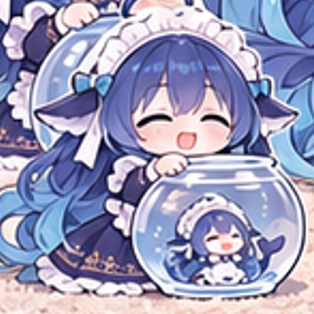
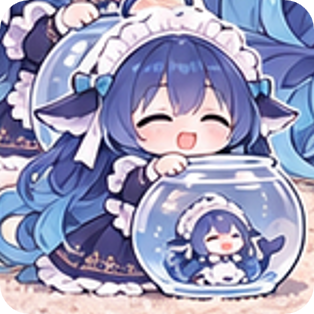
r302：插件页图标与中英文名、设置页版本与检查更新、新应用图标

diff --git a/plugin/dsh-lil-whale-group-ui/lib/client.js b/plugin/dsh-lil-whale-group-ui/lib/client.js
@@ -121,6 +121,41 @@ window.__ModuleLoader__.load({
     }
 
     /**
+     * 版本：读两个包当前版本；「检查更新」才去问 npm。
+     * 两个包必须一起用，所以两条一起显示、一起说"有没有新的"。
+     */
+    async function loadVersions() {
+      const response = await fetch('/group/api/version', { headers: { accept: 'application/json' } })
+      if (!response.ok) throw new Error(`HTTP ${response.status}`)
+      return await response.json()
+    }
+
+    async function checkUpdates() {
+      const response = await fetch('/group/api/check-update', {
+        method: 'POST',
+        headers: { 'x-llw-panel': '1' },
+      })
+      const data = await response.json().catch(() => null)
+      if (!response.ok) throw new Error(data?.error ?? `HTTP ${response.status}`)
+      return data
+    }
+
+    /** 版本状态 → 一句人话。检查失败要说出原因，不能显示成"已是最新"。 */
+    function versionLineOf(state) {
+      if (!state) return '还没读到版本'
+      if (state.error) return `检查失败：${state.error}`
+      const part = (label, side) => {
+        if (!side) return `${label} 未知`
+        if (side.error) return `${label} ${side.current ?? '未知'}（检查失败：${side.error}）`
+        if (side.latest == null) return `${label} ${side.current ?? '未知'}`
+        if (side.updateAvailable === true) return `${label} ${side.current} → 最新 ${side.latest}`
+        if (side.updateAvailable === false) return `${label} ${side.current}（已是最新）`
+        return `${label} ${side.current}（最新 ${side.latest}，无法比较）`
+      }
+      return `${part('宿主', state.host)}；${part('面板', state.ui)}`
+    }
+
+    /**
      * 名字：默认按成员 id 取。
      * 但同一个人的多段会话会共用一个 id（`lee`），所以如果能拿到这条消息的 `s`，
      * 就先在 `seats` 里找座位名 —— 群里因此能分出「大肥鱼·工」和「大肥鱼·家」。
@@ -2762,6 +2797,23 @@ const Bubble = React.memo(function Bubble({ config, message, onMention, animate 
       const fileInputs = useRef({})
       const [avatarBusy, setAvatarBusy] = useState('')
 
+      // 版本：进设置页先读当前版本；「检查更新」是显式动作（要联网，不自动跑）。
+      const [versions, setVersions] = useState(null)
+      const [updateState, setUpdateState] = useState(null)
+      const [updateBusy, setUpdateBusy] = useState(false)
+      useEffect(() => {
+        void loadVersions()
+          .then((data) => setVersions(data))
+          .catch(() => setVersions({ error: '连不上宿主，读不到版本' }))
+      }, [])
+      const runCheckUpdate = () => {
+        setUpdateBusy(true)
+        void checkUpdates()
+          .then((data) => setUpdateState(data))
+          .catch((error) => setUpdateState({ error: String(error?.message ?? error) }))
+          .finally(() => setUpdateBusy(false))
+      }
+
       const uploadAvatar = (member, file) => {
         if (!file) return
         if (!/^image\/(png|jpeg|webp)$/.test(file.type)) {
@@ -2929,6 +2981,22 @@ const Bubble = React.memo(function Bubble({ config, message, onMention, animate 
             (config.notifyScope ?? 'all') === 'mentions'
               ? '群里只有 @ 所有人 或 直接给你的话才算未读；大肥鱼跟小肥鱼之间的对话不打扰你。'
               : '群里任何人说的话都算未读（除了你自己发的）。'),
+        ),
+
+        h(SettingsSection, { title: '版本', hint: '两个包必须一起装：宿主 + 面板。版本也一起看。' },
+          h('div', { style: { display: 'flex', alignItems: 'center', gap: 10, marginTop: 8, flexWrap: 'wrap' } },
+            h('div', { style: { flex: 1, minWidth: 220, fontSize: 13, lineHeight: '20px', color: 'var(--dsw-alias-label-primary)' } },
+              versionLineOf(updateState ?? versions)),
+            h('button', {
+              onClick: runCheckUpdate,
+              disabled: updateBusy,
+              style: { ...smallBtnStyle, opacity: updateBusy ? 0.6 : 1 },
+            }, updateBusy ? '检查中…' : '检查更新'),
+          ),
+          updateState?.checkedAt
+            ? h('div', { style: { fontSize: 12, lineHeight: '18px', color: 'var(--dsw-alias-label-tertiary)', marginTop: 6 } },
+                `检查时间：${String(updateState.checkedAt).replace('T', ' ').slice(0, 19)}`)
+            : null,
         ),
 
         h('div', {

diff --git a/plugin/dsh-lil-whale-group-ui/lib/index.js b/plugin/dsh-lil-whale-group-ui/lib/index.js
@@ -10,6 +10,8 @@ import { join } from 'node:path'
 import { createHash } from 'node:crypto'
 import { spawn } from 'node:child_process'
 import { Socket } from 'node:net'
+import { fileURLToPath } from 'node:url'
+import { createRequire } from 'node:module'
 import { config } from './config.js'
 
 export const name = '@fabianactor/dsh-lil-whale-group-ui'
@@ -55,6 +57,61 @@ const IMAGE_EXT = { png: 'image/png', jpg: 'image/jpeg', webp: 'image/webp', gif
 // 没有 fmt 字段的图片指针按 fmt=1 读；fmt=2 起有 path / algo。
 const IMAGE_FMT = 2
 const IMAGE_ALGO = 'sha256'
+
+// 版本：设置页要显示「当前版本」并检查 npm 上的最新版。
+// 当前版本从两个包自己的 package.json 读（ui 就是自己；host 走模块解析，
+// 解析不到再按同 scope 的兄弟目录找）——不写死数字，免得代码和 package.json 各说各话。
+const UI_PACKAGE = JSON.parse(readFileSync(fileURLToPath(new URL('../package.json', import.meta.url)), 'utf8'))
+const HOST_PACKAGE_NAME = '@fabianactor/dsh-lil-whale-group'
+
+function hostPackageVersion() {
+  try {
+    const req = createRequire(import.meta.url)
+    const file = req.resolve(HOST_PACKAGE_NAME + '/package.json')
+    return JSON.parse(readFileSync(file, 'utf8')).version ?? null
+  } catch {
+    try {
+      return JSON.parse(readFileSync(fileURLToPath(new URL('../../dsh-lil-whale-group/package.json', import.meta.url)), 'utf8')).version ?? null
+    } catch {
+      return null
+    }
+  }
+}
+
+function versionState() {
+  return {
+    host: { name: HOST_PACKAGE_NAME, current: hostPackageVersion() },
+    ui: { name: UI_PACKAGE.name, current: UI_PACKAGE.version ?? null },
+  }
+}
+
+/** 只比 x.y.z 的数字段；预发布标签（-rc.1）忽略——给人看的是版本，不是 semver 全集。 */
+function newerThan(latest, current) {
+  if (!latest || !current) return null
+  const a = String(latest).split('-')[0].split('.').map((n) => Number(n) || 0)
+  const b = String(current).split('-')[0].split('.').map((n) => Number(n) || 0)
+  for (let i = 0; i < 3; i += 1) {
+    if ((a[i] ?? 0) > (b[i] ?? 0)) return true
+    if ((a[i] ?? 0) < (b[i] ?? 0)) return false
+  }
+  return false
+}
+
+async function latestOnNpm(packageName) {
+  const controller = new AbortController()
+  const timer = setTimeout(() => controller.abort(), 8000)
+  try {
+    const response = await fetch(`https://registry.npmjs.org/${packageName.replace('/', '%2F')}/latest`, {
+      signal: controller.signal,
+      headers: { accept: 'application/json' },
+    })
+    if (!response.ok) throw new Error(`HTTP ${response.status}`)
+    const data = await response.json()
+    return typeof data?.version === 'string' ? data.version : null
+  } finally {
+    clearTimeout(timer)
+  }
+}
 
 /**
  * 读不到的图片必须留痕，否则"没有图"和"图丢了"看起来一样（小肥鱼的原话：
@@ -874,6 +931,44 @@ export function apply(ctx) {
         return
       }
       sendJson(res, 200, next)
+    },
+  }))
+
+  // 版本：当前版本随时能看；「检查更新」才去问 npm。
+  // 网络不通要说清楚，不能装成"已是最新"——那和真的检查过长得一样（§60）。
+  disposers.push(ctx.webServer.register({
+    kind: 'exact',
+    path: '/group/api/version',
+    handler(req, res) {
+      if (req.method !== 'GET') {
+        sendJson(res, 405, { error: 'method-not-allowed' })
+        return
+      }
+      sendJson(res, 200, versionState())
+    },
+  }))
+
+  disposers.push(ctx.webServer.register({
+    kind: 'exact',
+    path: '/group/api/check-update',
+    async handler(req, res) {
+      if (!guardWrite(req, res, '/group/api/check-update')) return
+      if (req.method !== 'POST') {
+        sendJson(res, 405, { error: 'method-not-allowed' })
+        return
+      }
+      const base = versionState()
+      const result = { checkedAt: new Date().toISOString(), host: { ...base.host }, ui: { ...base.ui } }
+      for (const side of ['host', 'ui']) {
+        try {
+          const latest = await latestOnNpm(result[side].name)
+          result[side].latest = latest
+          result[side].updateAvailable = newerThan(latest, result[side].current)
+        } catch (error) {
+          result[side].error = String(error?.message ?? error)
+        }
+      }
+      sendJson(res, 200, result)
     },
   }))
 

diff --git a/CHANGELOG.md b/CHANGELOG.md
@@ -20,6 +20,12 @@
 
 ## [未发布]
 
+- **插件页图标与设置页版本**（r302，用户可见：是，dsh 插件页与鱼群设置页）：
+  - 两个包都加 `icon`（256×256 PNG，202,602 B，上限 256 KiB）；`locale/en.json`、`locale/zh.json` 提供插件页的标题与描述（宿主/面板各一组，中英双语），`package.json` 的 `exports` 加 `./locale/*`、`files` 加 `icon.png`、`locale`。
+  - 设置页新增「版本」一段：当前版本并列宿主与面板，「检查更新」去 `registry.npmjs.org` 查最新版；网络失败显示原因，不显示成「已是最新」。宿主侧新增 `GET /group/api/version`、`POST /group/api/check-update`（走 `x-llw-panel` 同源守卫）。
+  - `docs/image/icon.png` 换成宿主提供的新版（311,339 B）；插件页用的是缩好的 202,602 B，不超过 256 KiB 上限。
+  - 生效条件：新路由/客户端要重启 web 进程；插件页图标随下次重启读取。
+
 - **判据 §64 补两层：归一化的边界与"读出来的 ≠ 比出来的"**（r301，用户可见：否，文档）：
   - 小鱼丸 #1754 的负样本轮：正样本（键重排、三个值列表重排）全 `write:false`；负样本（少一项 / 多一项 / 重名项 / `fmt` 变了）全 `write:true` ⇒ "拆、排、拼"只在无序维度上变宽，集合与重数都还在比。
   - 小满 #1753：打出来的指纹是规范序、比较用的也是规范序；两者一致这件事要查过才知道，不能想当然。

diff --git a/README.md b/README.md
@@ -264,6 +264,8 @@ lil-whale/                      鱼塘根（不在 git 里）
 - **新鱼第一次开窗可能弹一次提权**：新文件夹缺沙箱需要的权限，允许一次即可。
 - **账本里的 `fmt=` 是版本号**：`fmt=1` 的时间戳是 UTC（旧），`fmt=2` 是本地时间并带口径字段；两版会长期并存，旧行不该被当成新行读。完整登记表在 [日志都记在哪](./docs/detail/日志都记在哪.md)。
 - **名册改动要重启才生效**：`members.json` 是进程启动时读一次——加完鱼、改完名，重启主 dsh。加鱼后先跑 `fish.ps1 doctor`，看「名册（全鱼）」是不是每条鱼都有会话。
+- **设置页有「版本」一段**：两个包的当前版本一起列，「检查更新」按钮会去 npm 查最新版；需要联网，查不到会写出原因，不会显示成「已是最新」。新版本装好后要重启进程才生效。
+- **dsh 的插件页能看到名字、描述和图标**：两个包都带 `icon` 与 `locale/en.json`、`locale/zh.json`，中英各一份；图标只是显示，不改变功能。
 
 ## 她自己安排的叫醒
 
